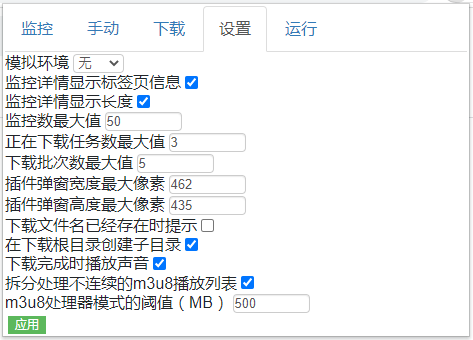
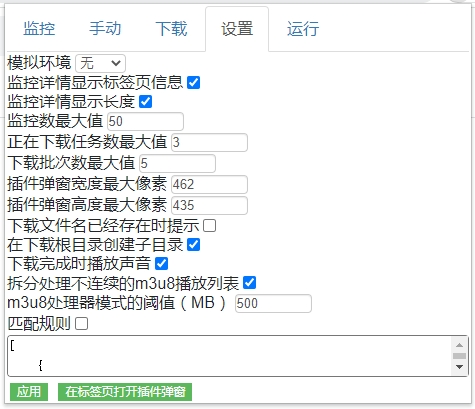
优化体验与添加规则

diff --git a/js/mychromeconfig.js b/js/mychromeconfig.js
@@ -20,7 +20,10 @@ var MyChromeConfig = (function () {
         splitDiscontinuity: "1",
         processerThreshold: 500,
         matchingRuleEnable: "0",
-        matchingRule: '[]'
+        matchingRule:   '[\r\n' +
+                        '    {\r\n         "url": {\r\n             "host": "*.googlevideo.com",\r\n             "pathname": null\r\n         },\r\n         "rule": {\r\n             "identifier": {\r\n                 "pathIndex": null,\r\n                 "queryParam": ["id"]\r\n             },\r\n             "ignorer": {\r\n                 "queryParam": ["range", "rn"]\r\n             }\r\n         }\r\n     },\r\n' +
+                        '    {\r\n         "url": {\r\n             "host": "www.youtube.com",\r\n             "pathname": "/watch"\r\n         },\r\n         "rule": {\r\n             "contentscript": {\r\n                 "func": "if(window.ytInitialPlayerResponse == null){ return null; } const data = window.ytInitialPlayerResponse; const builderData = { isMaster: true, playList: [] }; const convert = function(formats){ for(let a in formats){ const item = formats[a]; if(! item.url){ continue ; } builderData.playList.push({ uri: item.url, bandwidth: item.bitrate, codecs: item.mimeType.startsWith(\\"audio\\") ? \\"mp4a\\" : null, isDirect: true, duration: Number( (Number(item.approxDurationMs) / 1000).toFixed(2) ) }); } }; if(data != null && data.streamingData != null){ if(data.streamingData.formats != null){ convert(data.streamingData.formats); } if(data.streamingData.adaptiveFormats != null){ convert(data.streamingData.adaptiveFormats); } return {isUrl: false, content: null, builder: builderData}; } return null;"\r\n             }\r\n         }\r\n     }\r\n' +
+                        ']'
 	};
 	
 	chrome.storage.local.get(_config, function(items){

diff --git a/js/mychromemediamonitor.js b/js/mychromemediamonitor.js
@@ -225,6 +225,10 @@ var MyChromeMediaMonitor = (function () {
             let reqUrl = null, reqMethod = null;
             if(! runResult.isUrl){
                 const toEncode = runResult.content ? runResult.content : new MyM3u8Builder(runResult.builder).build();
+                if(! toEncode){
+                    callback(null);
+                    return ;
+                }
                 const ua = new TextEncoder().encode(toEncode);
                 const blob = new Blob([ua], {type: "application/octet-stream"});
                 reqUrl = URL.createObjectURL(blob);

diff --git a/js/mym3u8builder.js b/js/mym3u8builder.js
@@ -86,6 +86,9 @@ var MyM3u8Builder = function(_data){
     }
 	
 	this.build = function(){
+        if(_data.playList == null || _data.playList.length == 0){
+            return null;
+        }
 		if(_data.isMaster){
             return _buildMasterPlaylist();
         }

diff --git a/README.md b/README.md
@@ -17,6 +17,8 @@
 
 * 支持主流视频、音频下载，不局限于web规范的视音频
 
+* 支持自定义监控规则
+
 * 全自动化，为下片而生
 
 ## 运行环境
@@ -76,7 +78,7 @@ WeChat 1459669836
 
 ![readme](https://raw.githubusercontent.com/yangwk/m3u8-downloader/master/readme/06.PNG)
 
-下载完毕后会通知你打开m3u8处理程序，点击 是
+下载完毕后会通知打开m3u8处理程序，点击 是
 
 ![readme](https://raw.githubusercontent.com/yangwk/m3u8-downloader/master/readme/07.PNG)
 
@@ -90,15 +92,17 @@ m3u8处理程序处理完毕后，会自动打开处理后的文件所处位置
 
 ## 案例
 
-音乐
+* 音乐
 
 ![readme](https://raw.githubusercontent.com/yangwk/m3u8-downloader/master/readme/10.png)
 
-视频
+* 视频
 
 ![readme](https://raw.githubusercontent.com/yangwk/m3u8-downloader/master/readme/11.png)
 
-社交
+![readme](https://raw.githubusercontent.com/yangwk/m3u8-downloader/master/readme/13.png)
+
+* 社交
 
 ![readme](https://raw.githubusercontent.com/yangwk/m3u8-downloader/master/readme/12.png)
 
@@ -106,12 +110,14 @@ m3u8处理程序处理完毕后，会自动打开处理后的文件所处位置
 
 * 为了避免糟糕的下载体验，请关闭浏览器选项 设置 -> 高级 -> 下载内容 -> 下载前询问每个文件的保存位置
 
-* 下载m3u8使用m3u8处理器模式时，浏览器会提示m3u8处理程序是一个有风险的文件，该处理程序安全可靠，请保留该文件，让下载继续
+* 使用m3u8处理器模式下载m3u8时，浏览器会提示m3u8处理程序是一个有风险的文件，该处理程序安全可靠，请保留该文件，让下载继续
 
 ## 特殊技巧
 
 * 主流视频网站，都会有广告视频，同样被监控到，可以根据监控详情的长度鉴别是否为广告（广告长度都很短）
 
-* 同一个标签页，可能会监控到多个视音频，同样可根据监控详情的长度鉴别哪个是下载目标
+* 同一个标签页，可能会监控到多个视音频，同样根据监控详情的长度鉴别哪个是下载目标
+
+* 一些网站将视频和音频拆分，比如 YouTube，需要完整下载video和audio文件
 
 * 一些网站会防止下载，比如 某b，解决方法是：将插件弹窗设置的 模拟环境 切换为 手机，刷新网站页面后即可监控下载
